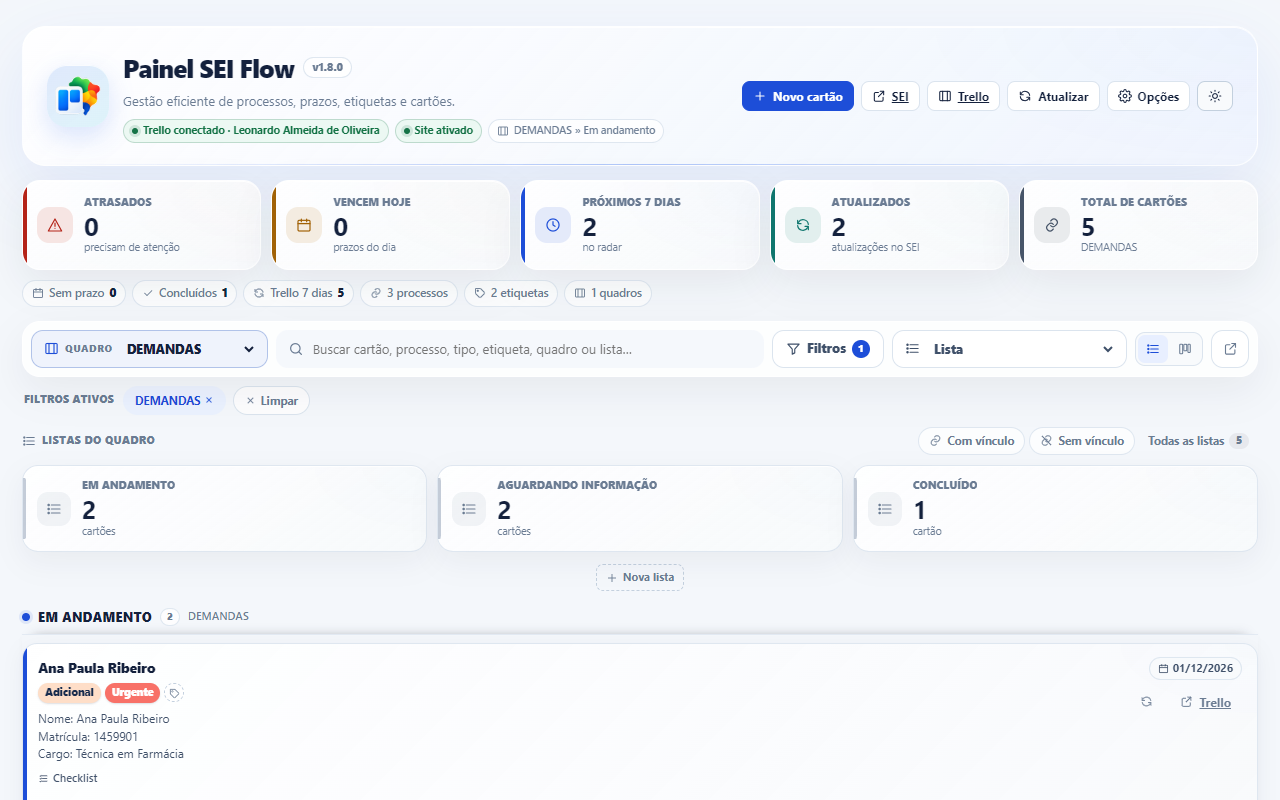
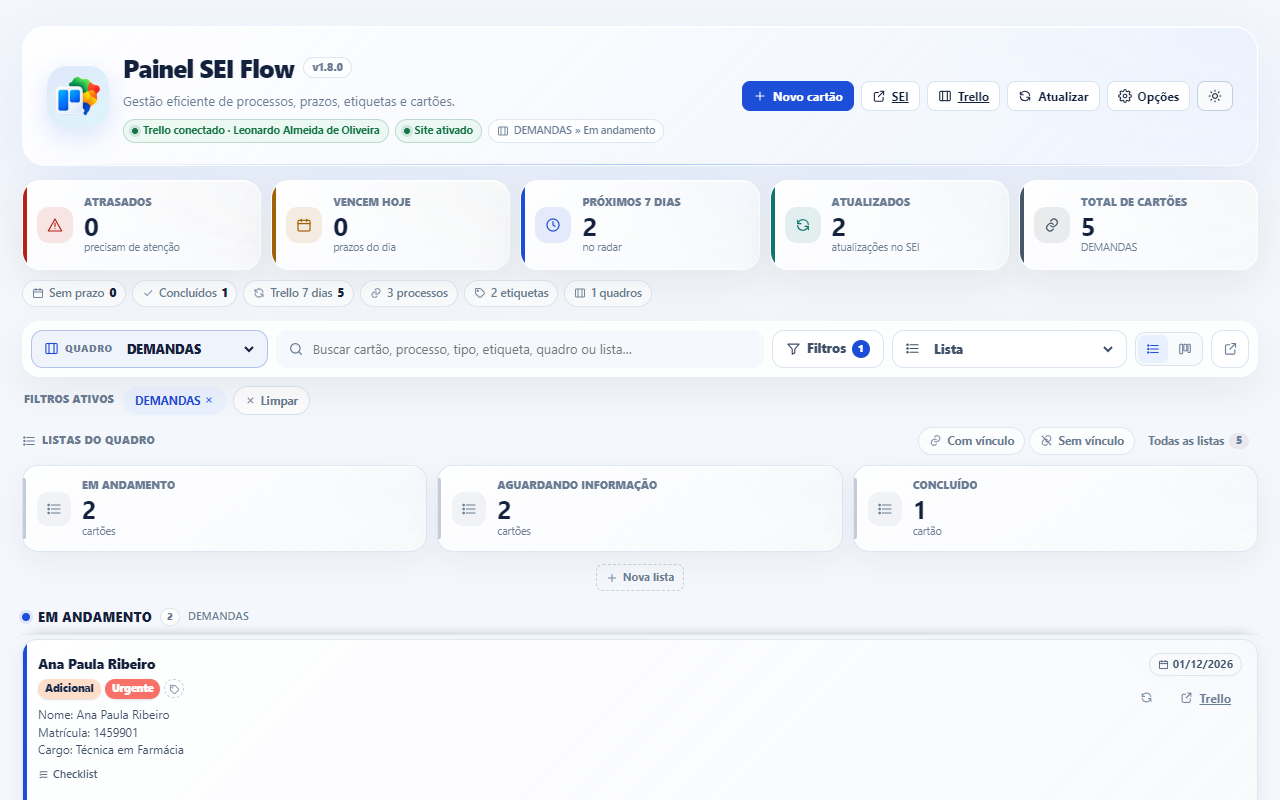
fix: cabecalho do kanban em grid e separador mais proximo
Nome longo trunca sem empurrar o nome do quadro; setas menores; linha/sombra proxima do quadro e padding reduzido.

Changed region(s): [[0.0312, 0.8125, 0.1562, 1.0], [0.9062, 0.8125, 0.9688, 0.9062]]

diff --git a/src/entrypoints/dashboard/style.css b/src/entrypoints/dashboard/style.css
@@ -1020,7 +1020,7 @@
   gap: 8px;
   border-top: 1px solid color-mix(in srgb, var(--border) 65%, transparent);
   box-shadow: 0 -8px 12px -12px rgba(15, 23, 42, 0.45);
-  padding-top: 8px;
+  padding-top: 4px;
 }
 
 .sdo-card {
@@ -2047,6 +2047,8 @@
 }
 
 .sdo-kanban-column__title-input {
+  grid-column: 2;
+  grid-row: 1;
   flex: 1;
   min-width: 0;
   padding: 2px 6px;
@@ -2798,11 +2800,13 @@
 }
 
 .sdo-kanban-column__head {
-  display: flex;
-  flex-wrap: wrap;
+  display: grid;
+  grid-template-columns: auto minmax(0, 1fr) auto auto;
+  grid-template-rows: 24px auto;
   align-items: center;
-  gap: 7px;
-  padding: 2px 2px 8px;
+  column-gap: 7px;
+  row-gap: 2px;
+  padding: 2px 2px 2px;
   color: var(--text);
   font-size: 15px;
   font-weight: 850;
@@ -2811,7 +2815,8 @@
 }
 
 .sdo-kanban-column__title {
-  flex: 1 1 auto;
+  grid-column: 2;
+  grid-row: 1;
   min-width: 0;
   overflow: hidden;
   text-overflow: ellipsis;
@@ -2819,6 +2824,8 @@
 }
 
 .sdo-kanban-column__dot {
+  grid-column: 1;
+  grid-row: 1;
   flex: 0 0 auto;
   width: 8px;
   height: 8px;
@@ -2828,6 +2835,8 @@
 
 .sdo-kanban-column__count {
   display: inline-flex;
+  grid-column: 3;
+  grid-row: 1;
   flex: 0 0 auto;
   align-items: center;
   justify-content: center;
@@ -2842,6 +2851,8 @@
 }
 
 .sdo-kanban-column__board {
+  grid-column: 1 / -1;
+  grid-row: 2;
   flex-basis: 100%;
   color: var(--muted);
   font-size: 10.5px;
@@ -2850,9 +2861,11 @@
 
 .sdo-kanban-column__actions {
   display: flex;
+  grid-column: 4;
+  grid-row: 1;
   flex: 0 0 auto;
   gap: 2px;
-  margin-left: auto;
+  margin-left: 0;
 }
 
 .sdo-kanban-column__actions button {
@@ -2885,7 +2898,7 @@
   flex-direction: column;
   gap: 14px;
   min-height: 0;
-  padding-top: 8px;
+  padding-top: 4px;
   padding-right: 2px;
   border-top: 1px solid color-mix(in srgb, var(--border) 65%, transparent);
   box-shadow: inset 0 10px 12px -12px rgba(15, 23, 42, 0.5);

diff --git a/CHANGELOG.md b/CHANGELOG.md
@@ -27,8 +27,8 @@ O formato segue [Keep a Changelog](https://keepachangelog.com/pt-BR/1.1.0/) e o 
 - **Atualizado**: a data relativa aparece ao lado do processo, sem o texto “Atualizado”; a data/hora exata fica no tooltip.
 - **Sem prazo**: cartões sem prazo mostram um botão discreto no lado direito, que abre o diálogo de prazo (antes o espaço ficava vazio).
 - **Espaço antes dos três pontinhos** e descrição compacta sem o degradê que apagava a 3ª linha; a linha de dados do processo voltou ao espaçamento anterior.
-- **Colunas do Kanban** espremidas para caber na tela e centralizadas; a largura atual virou o máximo, com limite de 180px por coluna e rolagem horizontal depois disso. Nomes longos truncam com tooltip e as setas de mover coluna ficaram menores.
-- **Linha e sombra** antes de iniciar os cartões, separando o cabeçalho da coluna do conteúdo.
+- **Colunas do Kanban** espremidas para caber na tela e centralizadas; a largura atual virou o máximo, com limite de 180px por coluna e rolagem horizontal depois disso. Nomes longos truncam com tooltip, as setas de mover coluna ficaram menores e o nome do quadro fica sempre na mesma linha.
+- **Linha e sombra** antes de iniciar os cartões, próximas do nome do quadro, separando o cabeçalho da coluna do conteúdo.
 - **Editor de descrição** sem o espaçamento extra entre linhas que aparecia ao abrir o cartão.
 - **Notificações do navegador removidas**: permissão `notifications`, alarme de prazos e opção nas Preferências.
 
